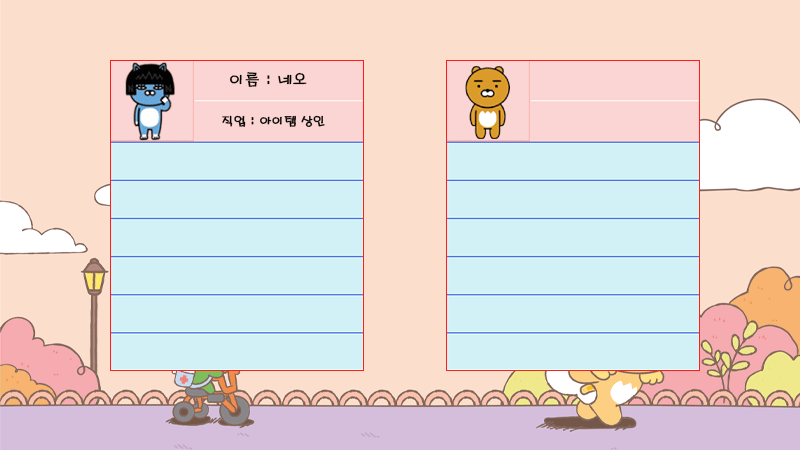
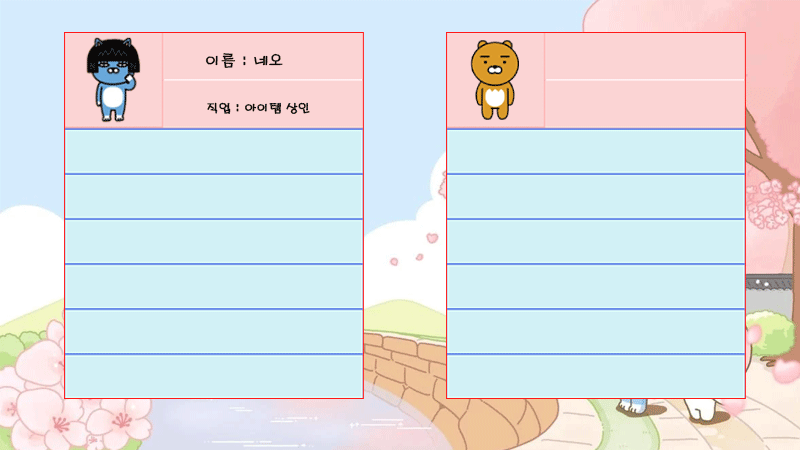
[ADD] purchase_map 생성

diff --git a/Sutda/Sutda.py b/Sutda/Sutda.py
@@ -309,6 +309,23 @@ if (__name__ == "__main__"): # main 함수임
                         pan_money = 10000
                         sutda_map = True
                         move_map = False
+
+                    if (Neo.in_locate(pos)): #Neo 클릭시 상점입장
+                        if(green_fluoroscope_check):
+                            item_list.append("green_fluoroscope")
+                        if(blue_fluoroscope_check):
+                            item_list.append("blue_fluoroscope")
+                        if(red_fluoroscope_check):
+                            item_list.append("red_fluoroscope")
+                        if(green_canvas_check):
+                            item_list.append("green_canvas")
+                        if(blue_canvas_check):
+                            item_list.append("blue_canvas")
+                        if(red_canvas_check):
+                            item_list.append("red_canvas")
+                        purchase_map = True
+                        move_map = False
+                  
                     if (backstage_button.in_locate(pos)): #뒤로가기버튼 클릭
                         start_menu = True
                         move_map = False
@@ -750,3 +767,114 @@ if (__name__ == "__main__"): # main 함수임
             pygame.display.update() # display refresh
             pygame.time.delay(1000)
     
+        while(purchase_map):
+            purchase_map_ch_pos = [417,48] 
+            character_x_pos_inp = purchase_map_ch_pos[0]
+            character_y_pos_inp = purchase_map_ch_pos[1]
+            window.blit(purchase_map_background, (0,0)) # purchase_map_background draw
+            backstage_button.draw(window)
+            ############### item draw #####################
+            if (equip_green_fluoroscope):
+                green_fluoroscope.item_draw(window,  character_x_pos_inp + 9, character_y_pos_inp + 20)
+            if (equip_blue_fluoroscope):
+                blue_fluoroscope.item_draw(window,  character_x_pos_inp + 9, character_y_pos_inp + 20)
+            if (equip_red_fluoroscope):
+                red_fluoroscope.item_draw(window,  character_x_pos_inp + 9, character_y_pos_inp + 20)
+            if (equip_green_canvas):
+                green_canvas.item_draw(window,  character_x_pos_inp + 37, character_y_pos_inp + 81)
+            if (equip_blue_canvas):
+                blue_canvas.item_draw(window,  character_x_pos_inp + 37, character_y_pos_inp + 81)
+            if (equip_red_canvas):
+                red_canvas.item_draw(window,  character_x_pos_inp + 37, character_y_pos_inp + 81)
+            ############### user info draw ################################
+            user_name_text_p = pygame.font.Font("D2Coding-Ver1.3.2-20180524-all.ttc", 14).render("이 름: " +user_name, True, (0, 0 ,0))
+            possession_money_text_p = pygame.font.Font("D2Coding-Ver1.3.2-20180524-all.ttc", 12).render("<보유금액>", True, (0, 0, 0))
+            user_money_text_p = pygame.font.Font("D2Coding-Ver1.3.2-20180524-all.ttc", 14).render(convert_money(user_money), True, (0, 0, 0))
+            window.blit(user_name_text_p,(590, 50)) #user name
+            window.blit(possession_money_text_p,(590, 90)) #user money
+            window.blit(user_money_text_p,(590, 105)) #user money
+            ########### sell item draw #######################
+            green_fluoroscope.draw_sell_image(window, 64, 128, 1, 1)
+            if(green_fluoroscope_check):
+                window.blit(sold_out, (64,128)) 
+            blue_fluoroscope.draw_sell_image(window, 64, 128 + 45 * 1, 1, 1)
+            if(blue_fluoroscope_check):
+                window.blit(sold_out, (64,128 + 45 * 1)) 
+            red_fluoroscope.draw_sell_image(window, 64,128 + 45 * 2, 1, 1)
+            if(red_fluoroscope_check):
+                window.blit(sold_out, (64,128 + 45 * 2)) 
+            green_canvas.draw_sell_image(window, 64, 128 + 45 * 3, 2, 1)
+            if(green_canvas_check):
+                window.blit(sold_out, (64,128 + 45 * 3)) 
+            blue_canvas.draw_sell_image(window, 64, 128 + 45 * 4, 2, 1)
+            if(blue_canvas_check):
+                window.blit(sold_out, (64,128 + 45 * 4)) 
+            red_canvas.draw_sell_image(window, 64, 128 + 45 * 5, 2, 1)
+            if(red_canvas_check):
+                window.blit(sold_out, (64,128 + 45 * 5)) 
+            ########### possession item draw #######################
+            possession_item_pos = [143,188,233,278,323,368]
+            for i in range (0, len(item_list)):
+                if (item_list[i] == "green_fluoroscope"):
+                    green_fluoroscope.draw_sell_image(window, 417, possession_item_pos[i], 1, 2)
+                if (item_list[i] == "blue_fluoroscope"):
+                    blue_fluoroscope.draw_sell_image(window, 417, possession_item_pos[i], 1, 2)
+                if (item_list[i] == "red_fluoroscope"):
+                    red_fluoroscope.draw_sell_image(window, 417, possession_item_pos[i], 1, 2)
+                if (item_list[i] == "green_canvas"):
+                    green_canvas.draw_sell_image(window, 417, possession_item_pos[i], 2, 2)
+                if (item_list[i] == "blue_canvas"):
+                    blue_canvas.draw_sell_image(window, 417, possession_item_pos[i], 2, 2)
+                if (item_list[i] == "red_canvas"):
+                    red_canvas.draw_sell_image(window, 417, possession_item_pos[i], 2, 2)
+            ########################################################
+            pygame.display.update() # display refresh
+
+            item_list = []
+            if(green_fluoroscope_check):
+                item_list.append("green_fluoroscope")
+            if(blue_fluoroscope_check):
+                item_list.append("blue_fluoroscope")
+            if(red_fluoroscope_check):
+                item_list.append("red_fluoroscope")
+            if(green_canvas_check):
+                item_list.append("green_canvas")
+            if(blue_canvas_check):
+                item_list.append("blue_canvas")
+            if(red_canvas_check):
+                item_list.append("red_canvas")
+
+            for event in pygame.event.get():
+                pos = pygame.mouse.get_pos()
+                if (event.type == pygame.QUIT): #quit event
+                    entire_loop = False
+                    purchase_map = False    
+                if (event.type == pygame.MOUSEBUTTONDOWN): # backstage_button click down
+                    if (green_fluoroscope_check == False and pos_check(pos, 75, 143, 375, 143 + 46)):
+                        green_fluoroscope_p_check = green_fluoroscope.purchase(window, user_money)
+                        green_fluoroscope_check = green_fluoroscope_p_check[0]
+                        user_money = green_fluoroscope_p_check[1]
+                    if (blue_fluoroscope_check == False and pos_check(pos, 75, 188, 375, 188 + 46)):
+                        blue_fluoroscope_p_check = blue_fluoroscope.purchase(window, user_money)
+                        blue_fluoroscope_check = blue_fluoroscope_p_check[0]
+                        user_money= blue_fluoroscope_p_check[1]
+                    if (red_fluoroscope_check == False and pos_check(pos, 75, 233, 375, 233 + 46)):
+                        red_fluoroscope_p_check = red_fluoroscope.purchase(window, user_money)
+                        red_fluoroscope_check = red_fluoroscope_p_check[0]
+                        user_money = red_fluoroscope_p_check[1]
+                    if (green_canvas_check == False and pos_check(pos, 75, 278, 375, 278 + 46)):
+                        green_canvas_p_check = green_canvas.purchase(window, user_money)
+                        green_canvas_check = green_canvas_p_check[0]
+                        user_money = green_canvas_p_check[1]
+                    if (blue_canvas_check == False and pos_check(pos, 75, 323, 375, 323 + 46)):
+                        blue_canvas_p_check = blue_canvas.purchase(window, user_money)
+                        blue_canvas_check = blue_canvas_p_check[0]
+                        user_money = blue_canvas_p_check[1]
+                    if (red_canvas_check == False and pos_check(pos, 75, 368, 375, 368 + 46)):
+                        red_canvas_p_check = red_canvas.purchase(window, user_money)
+                        red_canvas_check = red_canvas_p_check[0]
+                        user_money = red_canvas_p_check[1]
+                    if (backstage_button.in_locate(pos)):
+                        item_list = []
+                        move_map = True
+                        purchase_map = False

diff --git a/Sutda/objects.py b/Sutda/objects.py
@@ -248,6 +248,7 @@ win_map_background = pygame.image.load("image\You_win.jpg")
 bag_background = pygame.image.load("image\Bag_background.png")
 bag_table = pygame.image.load("image\가방틀.png")    
 equip = pygame.image.load("image\Equip.png")
+purchase_map_background = pygame.image.load("image\ItempShop_background.png")
 
 
 
@@ -288,6 +289,7 @@ coin_3 = pygame.image.load("image\Coin3.png")
 coin_4 = pygame.image.load("image\Coin4.png")
 first_turn = pygame.image.load("image\선1.png")
 combination_table_image = pygame.image.load("image\Combination_table.png")
+sold_out = pygame.image.load("image\Sold_out.png")
 
 green_canvas_info = pygame.image.load("image\Green_canvas_info.png")
 blue_canvas_info = pygame.image.load("image\Blue_canvas_info.png")
